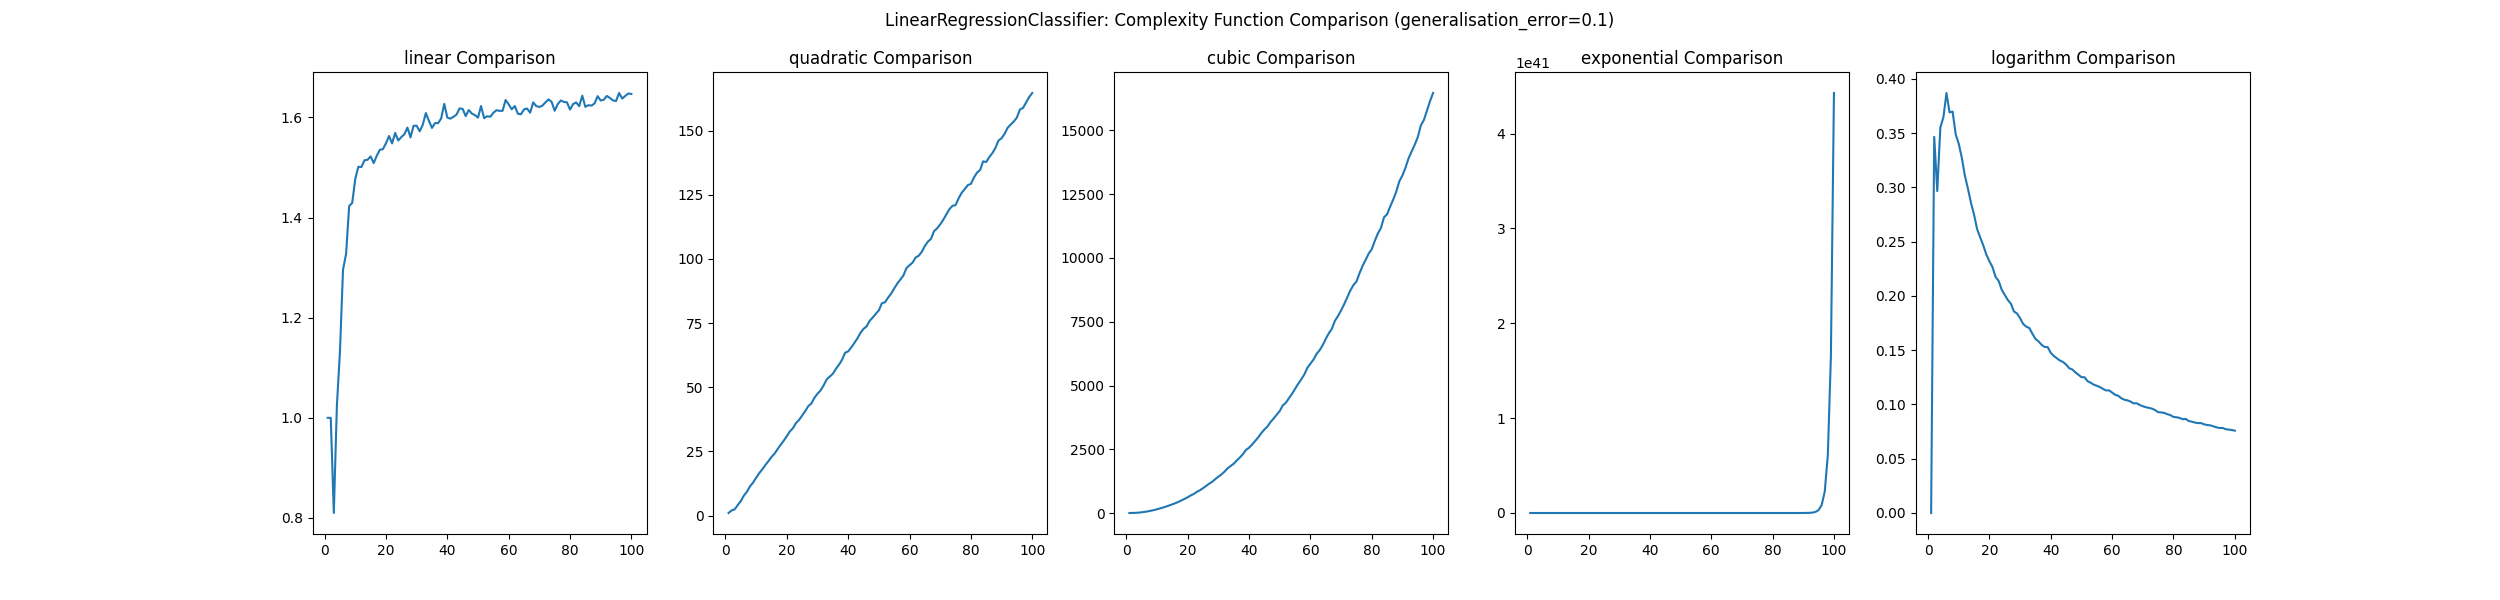
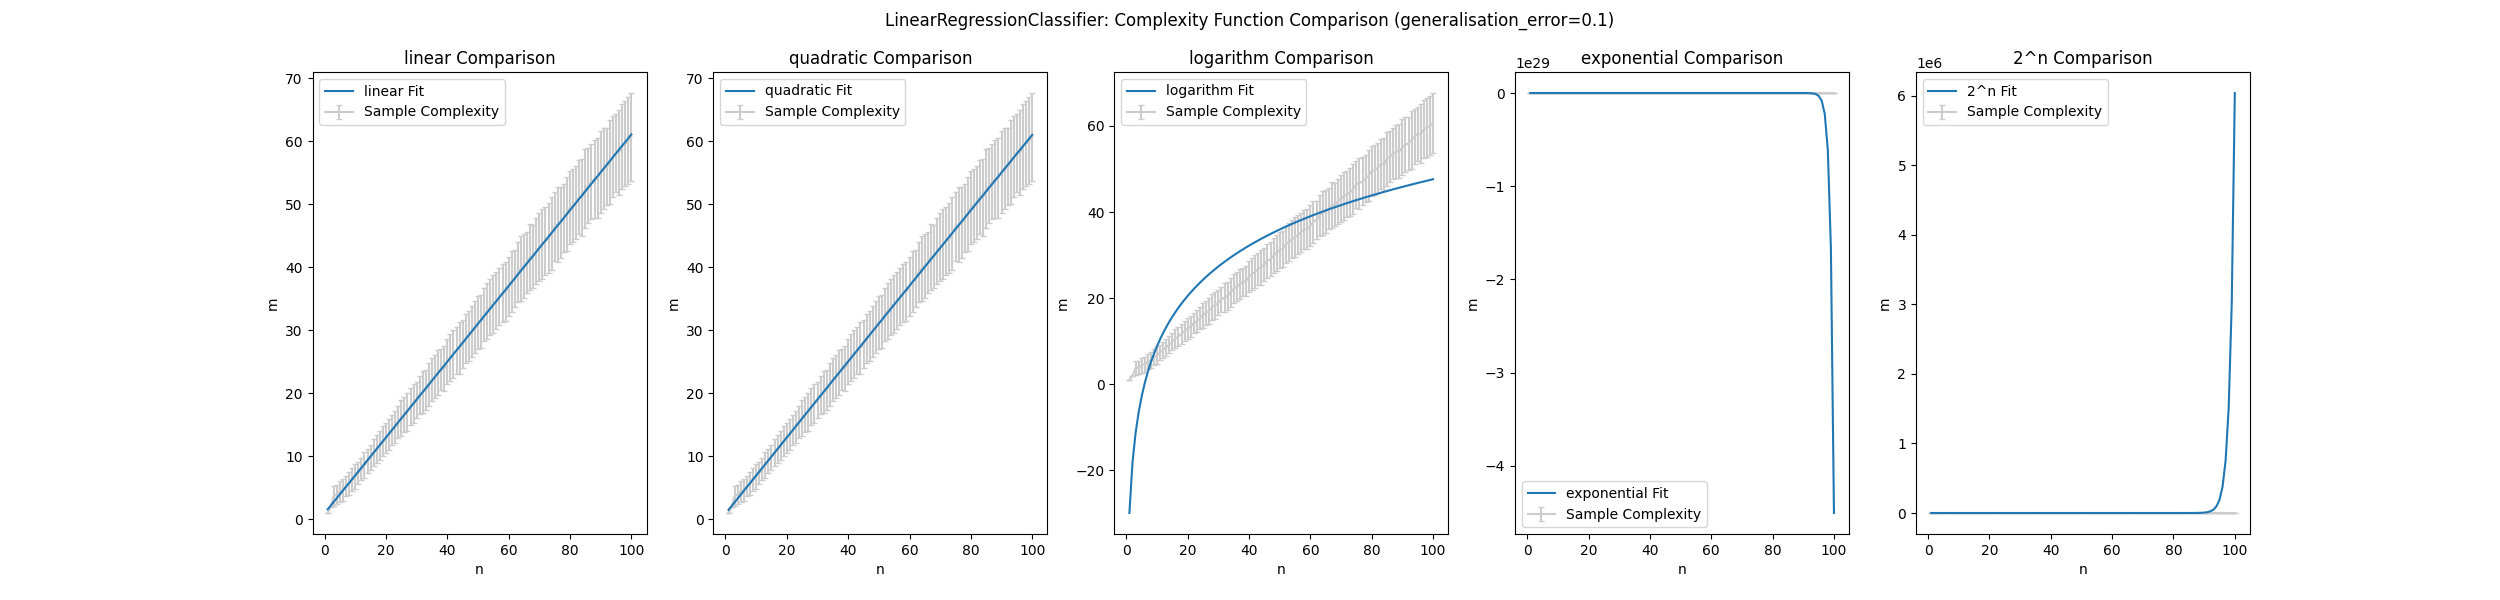
update part 3 figures

diff --git a/main.py b/main.py
@@ -2,20 +2,36 @@ import os
 
 import jax
 import numpy as np
+import pandas as pd
+from scipy.optimize import curve_fit
 
-from src.constants import OUTPUTS_FOLDER
-from src.models.kernels import PolynomialKernel
+from src.constants import (
+    OUTPUTS_FOLDER,
+    PART_1_DATA_SET_PATH,
+    PART_1_MINI_TRAIN_SET_PATH,
+    PART_1_MINI_TEST_SET_PATH,
+)
+from src.models.kernels import PolynomialKernel, GaussianKernel
 from src.models.single_class.linear_regression_classifier import (
     LinearRegressionClassifier,
 )
 from src.models.single_class.one_nn import OneNN
 from src.models.single_class.perceptron import Perceptron
 from src.models.single_class.winnow import Winnow
-from src.solutions import part_3
+from src.solutions import part_1, part_3
+from src.models.helpers import one_hot_encode, split_train_test_data, TrainTestData
+
+
+def part_1_preprocess(data):
+    x_data, labels = data[:, 1:], data[:, 0]
+    # shift so that our labels start at zero
+    shifted_labels = labels - np.min(labels)
+    y_data = one_hot_encode(shifted_labels)
+    return x_data, y_data, labels
+
 
 if __name__ == "__main__":
     jax.config.update("jax_platform_name", "cpu")
-    jax.config.update("jax_enable_x64", True)
 
     if not os.path.exists(OUTPUTS_FOLDER):
         os.makedirs(OUTPUTS_FOLDER)
@@ -25,34 +41,49 @@ if __name__ == "__main__":
     # if not os.path.exists(PART_1_OUTPUT_FOLDER):
     #     os.makedirs(PART_1_OUTPUT_FOLDER)
     #
-    # data = np.genfromtxt(PART_1_DATA_SET_PATH)
-    # x, labels = data[:, 1:], data[:, 0]
-    # # shift so that our labels start at zero
-    # shifted_labels = labels - jnp.min(labels)
-    # y = one_hot_encode(shifted_labels)
+    # raw_data = np.genfromtxt(PART_1_DATA_SET_PATH)
+    # x, y, labels = part_1_preprocess(raw_data)
+    #
+    # raw_data_mini_train = np.genfromtxt(PART_1_MINI_TRAIN_SET_PATH)
+    # x_mini_train, y_mini_train, _ = part_1_preprocess(raw_data_mini_train)
+    # raw_data_mini_test = np.genfromtxt(PART_1_MINI_TEST_SET_PATH)
+    # x_mini_test, y_mini_test, _ = part_1_preprocess(raw_data_mini_test)
+    # x_mini = np.concatenate((x_mini_train, x_mini_test), axis=0)
+    # y_mini = np.concatenate((y_mini_train, y_mini_test), axis=0)
+    #
+    # data_mini = TrainTestData(
+    #     x_train=x_mini_train,
+    #     y_train=y_mini_train,
+    #     x_test=x_mini_test,
+    #     y_test=y_mini_test,
+    # )
     #
     # number_of_runs = 20
     # percent_split = 0.8
+    # test_error_convergence_rate = 0
     #
+    # # POLYNOMIAL KERNEL
     # part_1.q1(
+    #     data_mini=data_mini,
     #     data=[
     #         split_train_test_data(x, y, percent_split) for _ in range(number_of_runs)
     #     ],
     #     kernel_class=PolynomialKernel(),
     #     kernel_parameters=np.arange(1, 8),
     #     kernel_parameter_name="degree",
-    #     number_of_epochs=2,
+    #     test_error_convergence_rate=test_error_convergence_rate,
     #     df_performance_path=os.path.join(PART_1_OUTPUT_FOLDER, "q1"),
     # )
     #
     # part_1.q2(
+    #     data_mini=data_mini,
     #     data=[
     #         split_train_test_data(x, y, percent_split) for _ in range(number_of_runs)
     #     ],
     #     kernel_class=PolynomialKernel(),
     #     kernel_parameters=np.arange(1, 8),
     #     kernel_parameter_name="degree",
-    #     number_of_epochs=2,
+    #     test_error_convergence_rate=test_error_convergence_rate,
     #     number_of_folds=5,
     #     labels=np.sort(list(set(labels))).astype(int),
     #     df_performance_path=os.path.join(PART_1_OUTPUT_FOLDER, "q2"),
@@ -60,25 +91,59 @@ if __name__ == "__main__":
     #     most_difficult_images_path=os.path.join(PART_1_OUTPUT_FOLDER, "q4.png"),
     # )
     #
+    # # GAUSSIAN KERNEL
+    # # find best parameters
     # part_1.q1(
+    #     data_mini=data_mini,
+    #     data=[
+    #         split_train_test_data(x_mini, y_mini, percent_split)
+    #         for _ in range(number_of_runs)
+    #     ],
+    #     kernel_class=GaussianKernel(),
+    #     kernel_parameters=np.logspace(-5, 1, 20),
+    #     kernel_parameter_name="sigma",
+    #     test_error_convergence_rate=test_error_convergence_rate,
+    #     df_performance_path=os.path.join(PART_1_OUTPUT_FOLDER, "q5_1-mini"),
+    # )
+    # df_gaussian_kernel_performance = pd.read_csv(
+    #     os.path.join(PART_1_OUTPUT_FOLDER, "q5_1-mini.csv")
+    # )
+    # best_parameter_idx = np.argmin(df_gaussian_kernel_performance["Test Error"])
+    # best_gaussian_kernel_params = list(
+    #     df_gaussian_kernel_performance.iloc[
+    #         best_parameter_idx - 1 : best_parameter_idx + 2, 0
+    #     ]
+    # )
+    # best_gaussian_kernel_params = [
+    #     float(x.split("=")[1])
+    #     for x in [best_gaussian_kernel_params[0], best_gaussian_kernel_params[-1]]
+    # ]
+    #
+    # # use best parameters
+    # part_1.q1(
+    #     data_mini=data_mini,
     #     data=[
     #         split_train_test_data(x, y, percent_split) for _ in range(number_of_runs)
     #     ],
     #     kernel_class=GaussianKernel(),
-    #     kernel_parameters=np.arange(2e-3, 3e-2, 4e-3),
+    #     kernel_parameters=np.linspace(
+    #         best_gaussian_kernel_params[0], best_gaussian_kernel_params[1], 7
+    #     ),
     #     kernel_parameter_name="sigma",
-    #     number_of_epochs=2,
+    #     test_error_convergence_rate=test_error_convergence_rate,
     #     df_performance_path=os.path.join(PART_1_OUTPUT_FOLDER, "q5_1"),
     # )
-    #
     # part_1.q2(
+    #     data_mini=data_mini,
     #     data=[
     #         split_train_test_data(x, y, percent_split) for _ in range(number_of_runs)
     #     ],
     #     kernel_class=GaussianKernel(),
-    #     kernel_parameters=np.arange(2e-3, 3e-2, 4e-3),
+    #     kernel_parameters=np.linspace(
+    #         best_gaussian_kernel_params[0], best_gaussian_kernel_params[1], 7
+    #     ),
     #     kernel_parameter_name="sigma",
-    #     number_of_epochs=2,
+    #     test_error_convergence_rate=test_error_convergence_rate,
     #     number_of_folds=5,
     #     labels=np.sort(list(set(labels))).astype(int),
     #     df_performance_path=os.path.join(PART_1_OUTPUT_FOLDER, "q5_2"),
@@ -88,6 +153,39 @@ if __name__ == "__main__":
     #     ),
     # )
     #
+    # # ALTERNATIVE MULTICLASS ALGORITHM
+    # part_1.q1(
+    #     data_mini=data_mini,
+    #     data=[
+    #         split_train_test_data(x, y, percent_split) for _ in range(number_of_runs)
+    #     ],
+    #     kernel_class=PolynomialKernel(),
+    #     kernel_parameters=np.arange(1, 8),
+    #     kernel_parameter_name="degree",
+    #     test_error_convergence_rate=test_error_convergence_rate,
+    #     df_performance_path=os.path.join(PART_1_OUTPUT_FOLDER, "q6"),
+    #     use_default_update_method=False,
+    # )
+    #
+    # part_1.q2(
+    #     data_mini=data_mini,
+    #     data=[
+    #         split_train_test_data(x, y, percent_split) for _ in range(number_of_runs)
+    #     ],
+    #     kernel_class=PolynomialKernel(),
+    #     kernel_parameters=np.arange(1, 8),
+    #     kernel_parameter_name="degree",
+    #     test_error_convergence_rate=test_error_convergence_rate,
+    #     number_of_folds=5,
+    #     labels=np.sort(list(set(labels))).astype(int),
+    #     df_performance_path=os.path.join(PART_1_OUTPUT_FOLDER, "q6_performance"),
+    #     df_confusion_matrix_path=os.path.join(PART_1_OUTPUT_FOLDER, "q6_confusion"),
+    #     most_difficult_images_path=os.path.join(
+    #         PART_1_OUTPUT_FOLDER, "q6_most_difficult.png"
+    #     ),
+    #     use_default_update_method=False,
+    # )
+
     # # Question 2
     # PART_2_OUTPUT_FOLDER = os.path.join(OUTPUTS_FOLDER, "part2")
     # if not os.path.exists(PART_2_OUTPUT_FOLDER):
@@ -98,14 +196,44 @@ if __name__ == "__main__":
     PART_3_OUTPUT_FOLDER = os.path.join(OUTPUTS_FOLDER, "part3")
     if not os.path.exists(PART_3_OUTPUT_FOLDER):
         os.makedirs(PART_3_OUTPUT_FOLDER)
-    LOAD_PREVIOUS_RESULTS = False
+    LOAD_PREVIOUS_RESULTS = True
 
     candidate_complexity_functions = {
-        "linear": lambda x: x,
-        "quadratic": lambda x: x**2,
-        "cubic": lambda x: x**3,
-        "exponential": lambda x: np.exp(x),
-        "logarithm": lambda x: np.log(x),
+        "linear": {
+            "fit": lambda x, y: np.polyfit(x, y, 1),
+            "f": lambda x, coeff: np.poly1d(coeff)(x),
+        },
+        "quadratic": {
+            "fit": lambda x, y: np.polyfit(x, y, 2),
+            "f": lambda x, coeff: np.poly1d(coeff)(x),
+        },
+        # "logarithm": {
+        #     "fit": lambda x, y: np.polyfit(np.log(x), y, 1),
+        #     "f": lambda x, coeff: np.poly1d(coeff)(np.log(x)),
+        # },
+        "logarithm": {
+            "fit": lambda x, y: curve_fit(
+                lambda t, a, b, c: a * np.log(b * t) + c, x, y
+            )[0],
+            "f": lambda x, coeff: coeff[0] * np.log(coeff[1] * x) + coeff[2],
+        },
+        "exponential": {
+            "fit": lambda x, y: curve_fit(
+                lambda t, a, b, c: a * np.exp(b * t) + c, x, y
+            )[0],
+            "f": lambda x, coeff: coeff[0] * np.exp(coeff[1] * x) + coeff[2],
+        },
+        "2^n": {
+            "fit": lambda x, y: curve_fit(
+                lambda t, a, b, c: a * (2 ** (b * t)) + c, x, y
+            )[0],
+            "f": lambda x, coeff: coeff[0] * (2 ** (coeff[1] * x)) + coeff[2],
+        },
+        # "linear": lambda x: x,
+        # "quadratic": lambda x: x**2,
+        # "cubic": lambda x: x**3,
+        # "exponential": lambda x: x**5,
+        # "logarithm": lambda x: np.log(x),
     }
     part_3.a(
         model=OneNN(),

diff --git a/src/solutions/part_3.py b/src/solutions/part_3.py
@@ -63,7 +63,7 @@ def a(
     number_of_trials: int,
     m_test: int,
     figure_save_path: str,
-    candidate_complexity_functions: Dict[str, Callable],
+    candidate_complexity_functions: Dict[str, Dict[str, Callable]],
     generalisation_error: float = 0.1,
     load_previous_results: bool = True,
 ):
@@ -105,14 +105,28 @@ def a(
     fig, ax = plt.subplots(1, len(candidate_complexity_functions))
     fig.set_size_inches(len(candidate_complexity_functions) * 5, 6)
     for i, function_name in enumerate(candidate_complexity_functions.keys()):
-        f = candidate_complexity_functions[function_name]
-        ax[i].plot(
+        fit_coefficients = candidate_complexity_functions[function_name]["fit"](
+            dimensions, np.mean(train_points_for_generalisation_error, axis=1)
+        )
+        fit_function = lambda x: candidate_complexity_functions[function_name]["f"](
+            x, fit_coefficients
+        )
+        ax[i].errorbar(
             dimensions,
-            np.divide(
-                f(dimensions), np.mean(train_points_for_generalisation_error, axis=1)
-            ),
+            np.mean(train_points_for_generalisation_error, axis=1),
+            yerr=np.std(train_points_for_generalisation_error, axis=1),
+            capsize=2,
+            color=(0.8, 0.8, 0.8),
+            zorder=-1,
+            label="Sample Complexity",
+        )
+        ax[i].plot(
+            dimensions, fit_function(dimensions), zorder=1, label=f"{function_name} Fit"
         )
         ax[i].title.set_text(f"{function_name} Comparison")
+        ax[i].legend()
+        ax[i].set_xlabel("n")
+        ax[i].set_ylabel("m")
     plt.suptitle(
         f"{type(model).__name__}: Complexity Function Comparison ({generalisation_error=})"
     )

diff --git a/src/models/single_class/model.py b/src/models/single_class/model.py
@@ -12,5 +12,7 @@ class Model(ABC):
     """
 
     @abstractmethod
-    def fit_predict(self, x_train, y_train, x_test, **kwargs):
+    def fit_predict(
+        self, x_train: np.ndarray, y_train: np.ndarray, x_test: np.ndarray, **kwargs
+    ) -> np.ndarray:
         pass
